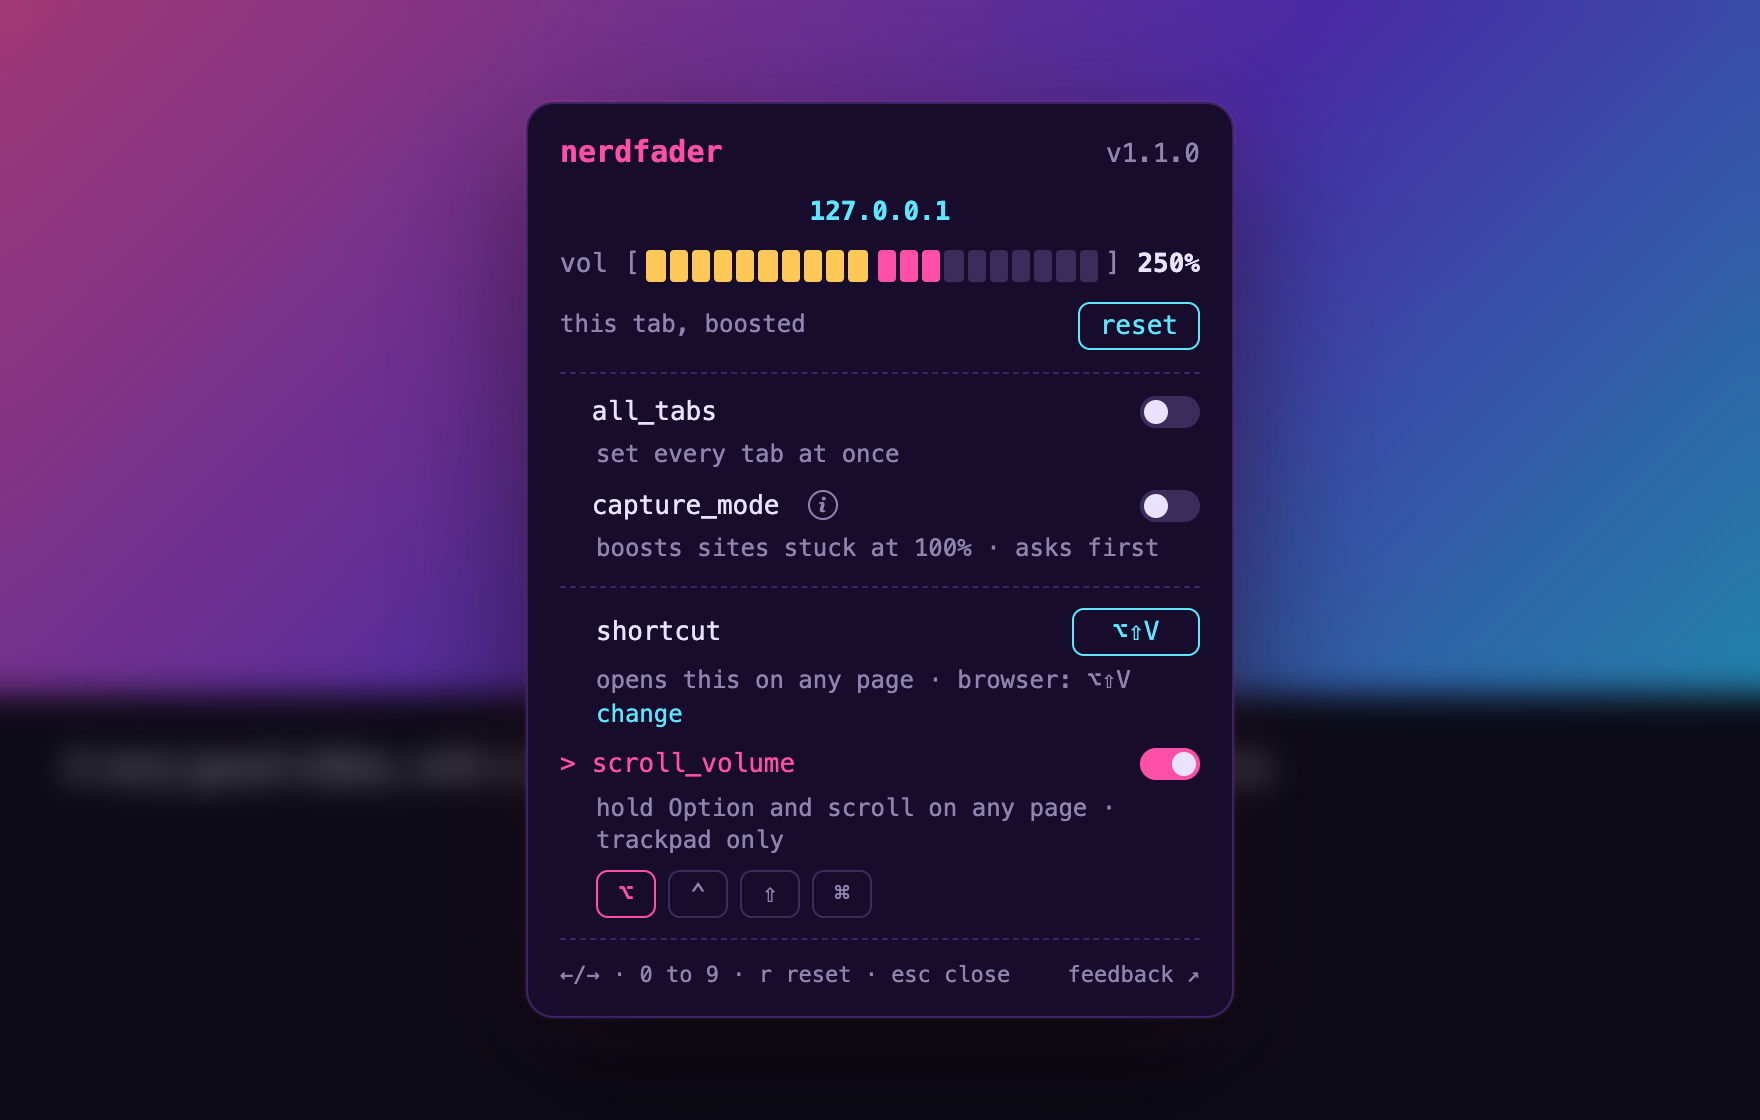
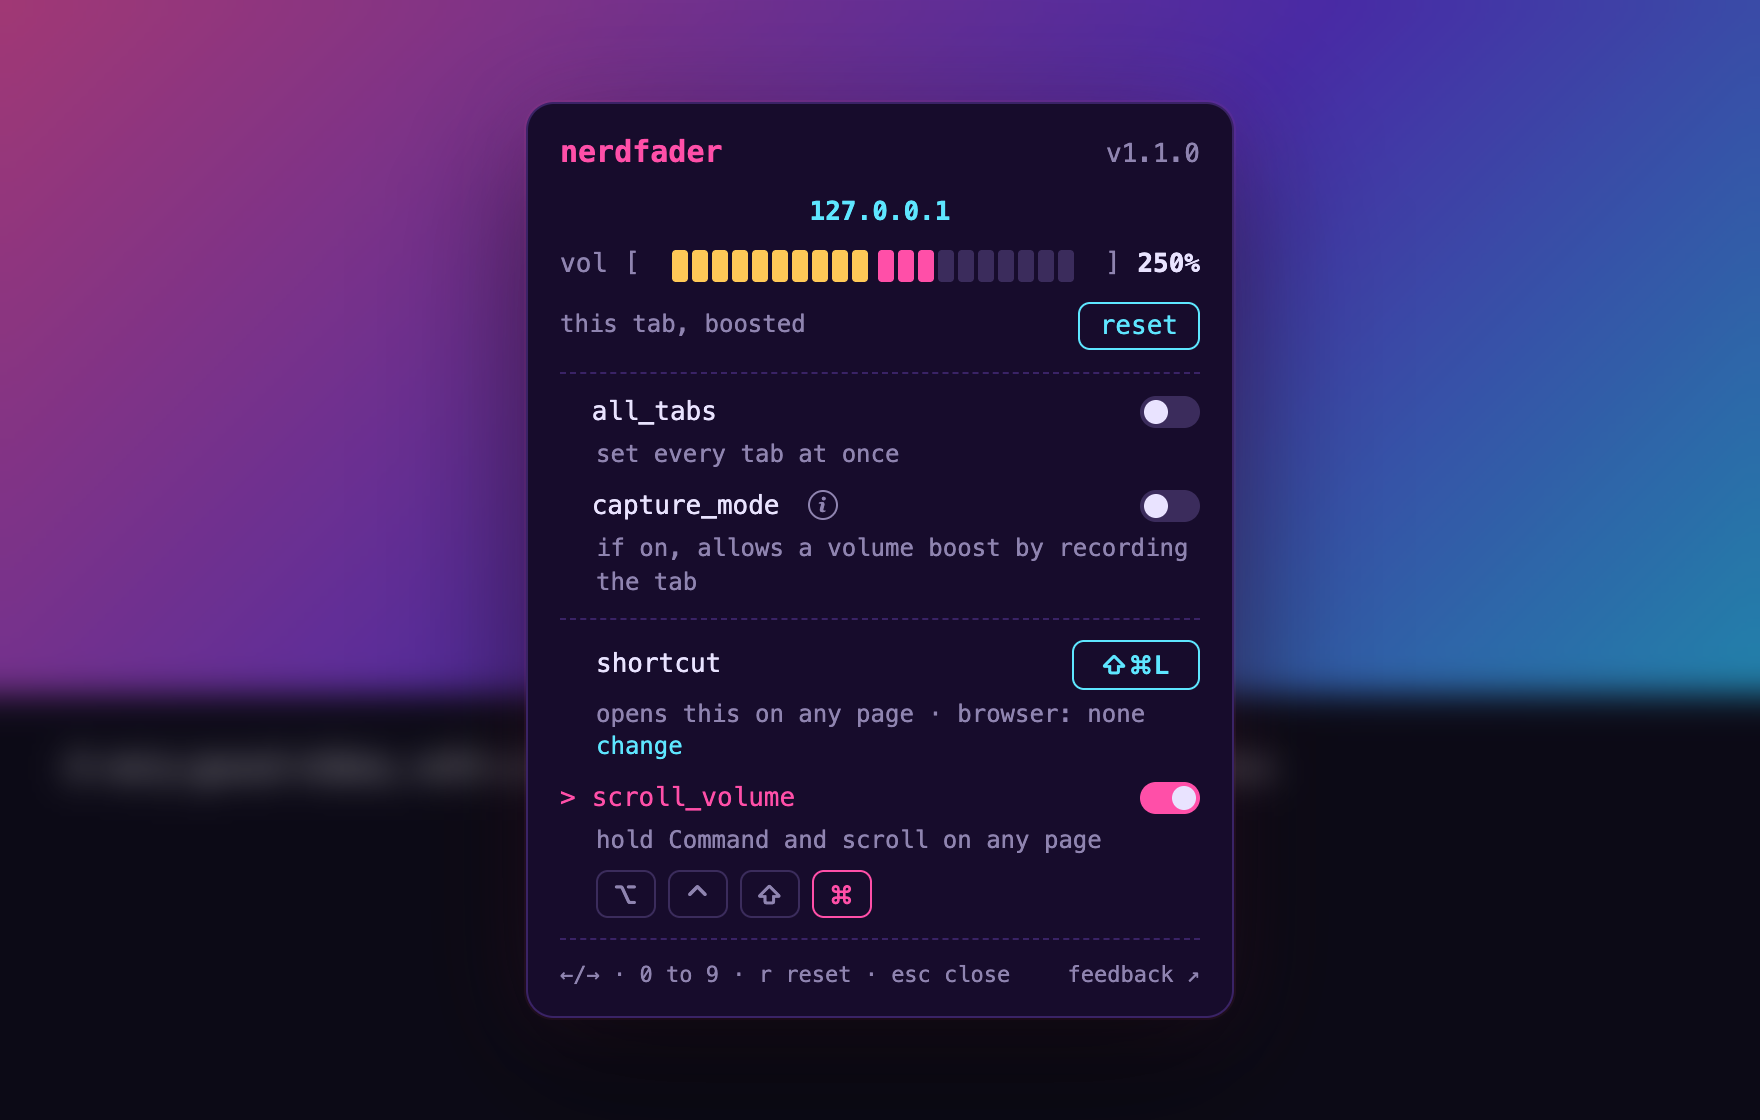
Defaults: Command+Shift+L shortcut, Command + scroll; even segments; clearer capture text
- Default shortcut Command+Shift+L (Ctrl+Shift+L elsewhere), in the page and as the suggested browser shortcut;
  scrolling changes the volume with Command (Windows key elsewhere) held by default. Choices users made are kept.
- Volume segments get whole-pixel widths, so none is drawn narrower than the rest at 1x.
- Modifier symbols use the system font (the monospace one has no proper Shift arrow).
- capture_mode: "if on, allows a volume boost by recording the tab"; Off and On on separate lines in the info.

Changed region(s): [[0.3125, 0.4688, 0.6875, 0.8125], [0.3438, 0.2188, 0.625, 0.25]]

diff --git a/tests/extension.test.js b/tests/extension.test.js
@@ -607,18 +607,18 @@ test("boosting loud audio makes it clearly louder without crackling", async () =
   await page.close();
 });
 
-test("the shortcut (Option/Alt+Shift+V by default) opens and closes the dialog on the page; a new one can be recorded", async () => {
+test("the shortcut (Command+Shift+L by default) opens and closes the dialog on the page; a new one can be recorded", async () => {
   const { page, tabId } = await openTestPage();
-  await page.keyboard.press("Alt+Shift+KeyV");
+  await page.keyboard.press("Meta+Shift+KeyL");
   assert.equal(await until(() => dialogReady(page), 2000), true, "default shortcut opens");
-  await page.keyboard.press("Alt+Shift+KeyV");
+  await page.keyboard.press("Meta+Shift+KeyL");
   assert.equal(await until(async () => !(await dialogOpen(page)), 1000), true, "and closes");
 
   // Record Ctrl+Shift+K in the panel (the toolbar popup shows the same panel without a shadow root).
   const popup = await context.newPage();
   await popup.addInitScript(([tabId, url]) => { chrome.tabs.query = async () => [{ id: tabId, url }]; }, [tabId, page.url()]);
   await popup.goto(ext.url());
-  await popup.locator(".shortcutBtn", { hasText: "⌥⇧V" }).waitFor();
+  await popup.locator(".shortcutBtn", { hasText: "⇧⌘L" }).waitFor();
   await popup.click(".shortcutBtn");
   await popup.locator(".shortcutBtn", { hasText: "press keys" }).waitFor();
   await popup.keyboard.press("Control+Shift+KeyK");
@@ -627,7 +627,7 @@ test("the shortcut (Option/Alt+Shift+V by default) opens and closes the dialog o
   await settle();
 
   await page.bringToFront();
-  await page.keyboard.press("Alt+Shift+KeyV");
+  await page.keyboard.press("Meta+Shift+KeyL");
   await wait(400);
   assert.equal(await dialogOpen(page), false, "the old shortcut no longer opens it");
   await page.keyboard.press("Control+Shift+KeyK");
@@ -650,7 +650,7 @@ test("the shortcut (Option/Alt+Shift+V by default) opens and closes the dialog o
   await page.keyboard.press("Escape");
   await until(async () => !(await dialogOpen(page)), 1000);
 
-  await send({ type: "setSettings", shortcut: { code: "KeyV", alt: true, ctrl: false, meta: false, shift: true } });
+  await send({ type: "setSettings", shortcut: { code: "KeyL", alt: false, ctrl: false, meta: true, shift: true } });
   await page.close();
 });
 
@@ -659,9 +659,9 @@ test("Option/Alt + scroll changes the volume and shows the dialog for a moment; 
   await page.mouse.move(200, 200);
   const state = async () => (await send({ type: "state", tabId })).tab;
   const altWheel = async (...deltas) => {
-    await page.keyboard.down("Alt");
+    await page.keyboard.down("Meta");   // Command + scroll, the default
     for (const d of deltas) await page.mouse.wheel(0, d);
-    await page.keyboard.up("Alt");
+    await page.keyboard.up("Meta");
   };
   const closesWithin = (ms) => until(async () => !(await dialogOpen(page)), ms);
 
@@ -762,10 +762,10 @@ test("a continuous swipe that opens the dialog keeps changing the volume, by dis
   const { page, tabId } = await openTestPage();
   await page.mouse.move(300, 300);
   const cdp = await context.newCDPSession(page);
-  // 30 events of 20 CSS px (40 device px at this page's 2x scale), about 50 ms apart, Option held: 600 px, so one
+  // 30 events of 20 CSS px (40 device px at this page's 2x scale), about 50 ms apart, Command held: 600 px, so one
   // step to start and then one per 100 px.
   for (let i = 0; i < 30; i++) {
-    await cdp.send("Input.dispatchMouseEvent", { type: "mouseWheel", x: 300, y: 300, deltaX: 0, deltaY: 40, modifiers: 1 });
+    await cdp.send("Input.dispatchMouseEvent", { type: "mouseWheel", x: 300, y: 300, deltaX: 0, deltaY: 40, modifiers: 4 });   // Command held
     await wait(16);
   }
   await wait(400);
@@ -795,8 +795,8 @@ test("the scroll key can be changed; Control ignores trackpad pinches", async ()
 
   await send({ type: "setSettings", scrollKey: "ctrl" });
   await settle();
-  await wheelWith("Alt");
-  assert.equal(await state(), 100, "Option no longer does it");
+  await wheelWith("Meta");
+  assert.equal(await state(), 100, "Command no longer does it");
   // A pinch: a wheel event with ctrlKey set while the Control key isn't held.
   await page.evaluate(() => document.body.dispatchEvent(new WheelEvent("wheel", { deltaY: 100, ctrlKey: true, bubbles: true, cancelable: true })));
   await wait(500);
@@ -811,7 +811,7 @@ test("the scroll key can be changed; Control ignores trackpad pinches", async ()
   assert.equal(await until(async () => (await state()) === 150, 2000), true, "Shift + scroll does");
   await closeDialog();
 
-  await send({ type: "setSettings", scrollKey: "alt" });
+  await send({ type: "setSettings", scrollKey: "meta" });
   await send({ type: "setTab", tabId, percent: 100 });
   await page.close();
 });
@@ -829,13 +829,16 @@ test("capture mode's info button explains it without flipping the switch; the sc
   assert.equal(await popup.locator(".alwaysToggle").isChecked(), false, "switch untouched");
   await popup.click(".infoBtn");
   assert.equal(await popup.locator(".captureInfo").isVisible(), false, "and hidden again");
-  assert.match(await popup.locator(".captureHint").textContent(), /stuck at 100%/);
+  assert.equal(await popup.locator(".captureHint").textContent(), "if on, allows a volume boost by recording the tab");
+  const lines = await popup.locator(".captureInfo p").allTextContents();
+  assert.ok(lines.some((l) => l.startsWith("Off:")) && lines.some((l) => l.startsWith("On:")), "Off and On on their own lines");
 
-  await popup.click('.pick[data-key="meta"]');
-  await popup.locator('.pick.on[data-key="meta"]').waitFor();
-  assert.equal((await send({ type: "state", tabId })).settings.scrollKey, "meta", "saved");
-  assert.match(await popup.locator(".altScrollHint").textContent(), /Command/);
-  await send({ type: "setSettings", scrollKey: "alt" });
+  assert.equal(await popup.locator('.pick.on').getAttribute("data-key"), "meta", "Command by default");
+  await popup.click('.pick[data-key="alt"]');
+  await popup.locator('.pick.on[data-key="alt"]').waitFor();
+  assert.equal((await send({ type: "state", tabId })).settings.scrollKey, "alt", "saved");
+  assert.match(await popup.locator(".altScrollHint").textContent(), /Option/);
+  await send({ type: "setSettings", scrollKey: "meta" });
   await popup.close();
   await page.close();
 });
@@ -847,7 +850,7 @@ test("all 20 volume segments are the same width, with a gap marking 100%", async
   await popup.locator(".percent").waitFor();
   const widths = await popup.evaluate(() => [...document.querySelectorAll(".segments i")].map((i) => Math.round(i.getBoundingClientRect().width * 10) / 10));
   assert.equal(widths.length, 20);
-  assert.ok(Math.max(...widths) - Math.min(...widths) < 0.6, `equal widths: ${widths.join(", ")}`);
+  assert.ok(widths.every((w) => w === widths[0] && Number.isInteger(w)), `equal, whole-pixel widths: ${widths.join(", ")}`);
   const [ten, eleven, nine] = await popup.evaluate(() => [10, 11, 9].map((n) => document.querySelectorAll(".segments i")[n - 1].getBoundingClientRect()));
   assert.ok(eleven.left - ten.right > (ten.left - nine.right) + 0.5, "a wider gap between 100% and the boost half");
   await popup.close();

diff --git a/extension/ui/panel.js b/extension/ui/panel.js
@@ -54,11 +54,15 @@ globalThis.NerdfaderPanel = (() => {
 .nf .percent { width: 4ch; text-align: right; font-weight: 700; }
 
 .nf .bar { position: relative; flex: 1; display: flex; align-items: center; gap: 4px; color: var(--muted); }
-.nf .segments { flex: 1; display: grid; grid-template-columns: repeat(10, 1fr) 1px repeat(10, 1fr); gap: 2px; height: 16px; }
+.nf .segments {
+  flex: 1; display: grid; gap: 2px; height: 16px; justify-content: center;
+  grid-template-columns: repeat(10, var(--seg, 1fr)) 1px repeat(10, var(--seg, 1fr));
+}
 .nf .segments i { border-radius: 2px; background: var(--off); }
 .nf .segments i.on { background: var(--amber); }
 .nf .segments i.boost.on { background: var(--pink); }
-/* An empty column between the 10th and 11th segments marks 100%, so every segment keeps the same width. */
+/* An empty column between the 10th and 11th segments marks 100%. Segments get a whole number of pixels (--seg, set
+   from the space available) so the browser draws them all the same width instead of rounding some down. */
 
 /* The real slider sits invisibly on top of the segments: mouse, keyboard and screen readers all use it. */
 .nf .slider { position: absolute; inset: -6px 0; width: 100%; height: calc(100% + 12px); margin: 0; opacity: 0; cursor: pointer; }
@@ -107,6 +111,7 @@ globalThis.NerdfaderPanel = (() => {
 .nf .infoBtn.open, .nf .infoBtn:hover { color: var(--cyan); border-color: var(--cyan); }
 .nf .info { margin: 2px 0 8px 18px; padding: 8px 10px; border-left: 2px solid var(--cyan); font-size: 12px; color: var(--text); }
 .nf .info p + p { margin-top: 6px; }
+.nf .info p:has(b) + p:has(b) { margin-top: 2px; }   /* the Off and On lines sit together */
 .nf .info b { color: var(--cyan); font-weight: 700; }
 .nf .picks { display: flex; gap: 6px; margin: -2px 0 8px 18px; }
 .nf .pick { min-width: 30px; padding: 2px 6px; color: var(--muted); border-color: var(--off); }
@@ -115,6 +120,8 @@ globalThis.NerdfaderPanel = (() => {
 .nf .setting { display: flex; align-items: center; gap: 8px; padding-left: 18px; }
 .nf .setting .name { flex: 1; }
 .nf .shortcutBtn { min-width: 64px; }
+/* Modifier symbols (⌘⌥⇧⌃) in the system font: the monospace font has no proper ⇧ and borrows a mismatched one. */
+.nf .kbd { font-family: -apple-system, BlinkMacSystemFont, system-ui, "Segoe UI", sans-serif; font-weight: 600; letter-spacing: 0.06em; }
 .nf .shortcutBtn.recording { color: var(--pink); border-color: var(--pink); }
 
 .nf .offer { margin-top: 10px; padding: 10px; border: 1px dashed var(--pink); border-radius: 8px; font-size: 12px; }
@@ -177,7 +184,8 @@ globalThis.NerdfaderPanel = (() => {
   and players that load their media from another site. They still play, just not louder.</p>
   <p>Capture mode gets around that: Nerdfader records the tab's sound and plays it back louder. While it's on, the
   browser shows the tab as being shared, and it stops by itself when the tab goes quiet.</p>
-  <p><b>Off:</b> Nerdfader asks you on such a site. <b>On:</b> it just does it.</p>
+  <p><b>Off:</b> Nerdfader asks you on such a site.</p>
+  <p><b>On:</b> it just does it.</p>
 </div>
 <div class="rule"></div>
 <div class="setting">
@@ -193,7 +201,7 @@ globalThis.NerdfaderPanel = (() => {
 </label>
 <div class="hint altScrollHint"></div>
 <div class="picks">
-  <button class="pick" data-key="alt"></button><button class="pick" data-key="ctrl"></button><button class="pick" data-key="shift"></button><button class="pick" data-key="meta"></button>
+  <button class="pick kbd" data-key="alt"></button><button class="pick kbd" data-key="ctrl"></button><button class="pick kbd" data-key="shift"></button><button class="pick kbd" data-key="meta"></button>
 </div>
 <div class="rule"></div>
 <footer>
@@ -360,21 +368,21 @@ globalThis.NerdfaderPanel = (() => {
       $("override").checked = all;
       $("overrideHint").textContent = all ? "every tab plays at this volume" : "set every tab at once";
       $("alwaysToggle").checked = state.captureAlways;
-      $("captureHint").textContent = state.captureAlways
-        ? "boosts sites stuck at 100% · automatically"
-        : "boosts sites stuck at 100% · asks first";
+      $("captureHint").textContent = "if on, allows a volume boost by recording the tab";
 
-      const settings = state.settings ?? { shortcut: null, altScroll: true, scrollKey: "alt" };
+      const settings = state.settings ?? { shortcut: null, altScroll: true, scrollKey: "meta" };
       $("shortcutBtn").textContent = recording ? "press keys…" : shortcutLabel(settings.shortcut);
+      $("shortcutBtn").classList.toggle("kbd", !recording && !!settings.shortcut);
       $("shortcutBtn").classList.toggle("recording", recording);
       $("shortcutHint").innerHTML = "";
       $("shortcutHint").append(
         recording ? "Esc cancels, Delete removes it" : "opens this on any page",
         ...(state.browserShortcut !== undefined
-          ? [` · browser: ${state.browserShortcut || "none"} `, Object.assign(document.createElement("a"), { textContent: "change", className: "changeBrowser", tabIndex: -1 })]
+          ? [" · browser: ", Object.assign(document.createElement("span"), { textContent: state.browserShortcut || "none", className: state.browserShortcut ? "kbd" : "" }), " ",
+             Object.assign(document.createElement("a"), { textContent: "change", className: "changeBrowser", tabIndex: -1 })]
           : []),
       );
-      const key = settings.scrollKey ?? "alt";
+      const key = settings.scrollKey ?? "meta";
       $("altScrollToggle").checked = settings.altScroll;
       $("altScrollHint").textContent = settings.altScroll
         ? `hold ${modifierWords[key]} and scroll on any page` + (mac && key === "alt" ? " · trackpad only" : "")
@@ -497,6 +505,16 @@ globalThis.NerdfaderPanel = (() => {
     }
     // Only the popup listens itself; see above.
     if (!close) root.addEventListener("wheel", wheel, { passive: false });
+
+    // Whole-pixel segments: 20 of them, 20 gaps of 2 px and the 1 px 100% marker in the space the bar has.
+    const fitSegments = () => {
+      const segs = $("segments");
+      segs.style.removeProperty("--seg");
+      const width = Math.floor((segs.getBoundingClientRect().width - 41) / 20);
+      if (width > 0) segs.style.setProperty("--seg", `${width}px`);
+    };
+    fitSegments();
+    new ResizeObserver(fitSegments).observe(root);
 
     render();
     root.focus();

diff --git a/extension/background.js b/extension/background.js
@@ -24,15 +24,17 @@ const clamp = (p) => Math.round(Math.min(MAX, Math.max(0, Number(p) || 0)));
 const toPercent = (pos) => (pos <= 100 ? pos : 100 + (pos - 100) * 5);
 const toPos = (p) => (p <= 100 ? p : 100 + (p - 100) / 5);
 
-// The in-page shortcut (content/input.js), stored as the key's code and modifiers. Option/Alt + Shift + V by default,
-// the same as the browser-level shortcut in manifest.json.
-const DEFAULT_SHORTCUT = { code: "KeyV", alt: true, shift: true, ctrl: false, meta: false };
+// The in-page shortcut (content/input.js), stored as the key's code and modifiers: Command + Shift + L on a Mac,
+// Ctrl + Shift + L elsewhere, the same as the browser-level shortcut in manifest.json. Scrolling changes the volume
+// with Command (Windows key elsewhere) held by default. Only defaults: a choice the user made is kept.
 async function settings() {
-  const { shortcut = DEFAULT_SHORTCUT, altScroll = true, scrollKey = "alt" } =
+  const mac = (await chrome.runtime.getPlatformInfo()).os === "mac";
+  const defaultShortcut = { code: "KeyL", shift: true, meta: mac, ctrl: !mac, alt: false };
+  const { shortcut = defaultShortcut, altScroll = true, scrollKey = "meta" } =
     await chrome.storage.local.get(["shortcut", "altScroll", "scrollKey"]);
   return { shortcut, altScroll, scrollKey };
 }
-// The browser-level shortcut as Chrome shows it (for example "⌥⇧V"), or "" when the user removed it.
+// The browser-level shortcut as Chrome shows it (for example "⇧⌘L"), or "" when the user removed it.
 async function browserShortcut() {
   const commands = await chrome.commands.getAll();
   return commands.find((c) => c.name === "_execute_action")?.shortcut ?? "";

diff --git a/extension/content/input.js b/extension/content/input.js
@@ -1,5 +1,5 @@
 // Runs in the extension's isolated world in every frame: the shortcut that opens the dialog, and modifier + scroll
-// (Option by default), which changes the tab's volume and shows the dialog for a moment. While the dialog is up, any
+// (Command by default), which changes the tab's volume and shows the dialog for a moment. While the dialog is up, any
 // scroll over it changes the volume too, handled here as well: one place counts every scroll, so a swipe that opens
 // the dialog keeps going without a hiccup.
 // Settings come from the background ({ shortcut, altScroll, scrollKey }) when the page loads and whenever they change.
@@ -9,7 +9,7 @@
   if (typeof previous === "function" && previous()) return;
   window.__nerdfaderInput = connected;
 
-  let settings = { shortcut: null, altScroll: true, scrollKey: "alt" };
+  let settings = { shortcut: null, altScroll: true, scrollKey: "meta" };
   const ask = (msg) => (connected() ? chrome.runtime.sendMessage(msg) : Promise.reject(new Error("disconnected")));
   ask({ type: "getSettings" }).then((s) => s && !s.error && (settings = s), () => {});
   chrome.runtime.onMessage.addListener((msg) => { if (msg?.type === "settings") settings = msg.settings; });
@@ -35,7 +35,7 @@
   const onModifier = (e) => { if (e.key === "Control") controlHeld = e.type === "keydown"; };
   const keys = ["alt", "ctrl", "shift", "meta"];
   function scrollKeyHeld(e) {
-    const chosen = settings.scrollKey ?? "alt";
+    const chosen = settings.scrollKey ?? "meta";
     if (chosen === "ctrl" && !controlHeld) return false;
     return keys.every((k) => e[k + "Key"] === (k === chosen));
   }

diff --git a/README.md b/README.md
@@ -30,14 +30,15 @@ Made for the [Nerdative](https://www.youtube.com/@nerdative) channel on YouTube,
 - **all_tabs.** Turn it on and one slider sets every tab, including ones you open later. Turn it off and every
   tab goes back to the volume it had before.
 - **Badge.** The toolbar icon shows the tab's volume when it isn't 100%.
-- **Shortcut.** **⌥⇧V** (Alt+Shift+V elsewhere) opens and closes the dialog. Record your own in the dialog (click
+- **Shortcut.** **⌘⇧L** (Ctrl+Shift+L elsewhere) opens and closes the dialog. Record your own in the dialog (click
   the shortcut, press the keys; Delete removes it): it works on any page and inside embedded players. The browser's
   own shortcut also works from the address bar; change it at `arc://extensions/shortcuts` (the dialog links there).
-- **Modifier + scroll.** Hold Option (Alt) and scroll anywhere, with a mouse wheel or two fingers on a trackpad, to
+  If the browser already uses that key itself, it leaves the browser-level shortcut unassigned; pick another there.
+- **Modifier + scroll.** Hold Command (the Windows key elsewhere) and scroll anywhere, with a mouse wheel or two fingers on a trackpad, to
   change the tab's volume: scrolling down turns it up (with macOS natural scrolling, that's a two-finger swipe up).
   The dialog shows for a moment and follows along while you keep scrolling; it goes away 2 seconds after you stop.
-  Click or type in it and it stays until you click away or press Esc. Pick the key in **scroll_volume**: ⌥ Option,
-  ⌃ Control, ⇧ Shift or ⌘ Command (or turn it off). On a Mac, Option works with a trackpad only (macOS doesn't
+  Click or type in it and it stays until you click away or press Esc. Pick the key in **scroll_volume**: ⌘ Command
+  (the default), ⌥ Option, ⌃ Control or ⇧ Shift (or turn it off). On a Mac, Option works with a trackpad only (macOS doesn't
   pass Option + mouse wheel to pages); with a mouse, pick another key. A trackpad pinch never counts as Control +
   scroll. The page doesn't rubber-band while the dialog is up, so a hard swipe at the top or bottom of a page stays
   with the dialog.
@@ -46,7 +47,7 @@ Made for the [Nerdative](https://www.youtube.com/@nerdative) channel on YouTube,
   the dialog works too. The dialog keeps the keyboard itself, so no control inside it takes focus or shows a focus
   ring (Tab doesn't step through it).
 - **Four-finger gestures?** macOS keeps three- and four-finger trackpad gestures to itself; web pages and extensions
-  never see them. To open Nerdfader with one, map the gesture to ⌥⇧V in a tool like
+  never see them. To open Nerdfader with one, map the gesture to ⌘⇧L in a tool like
   [BetterTouchTool](https://folivora.ai).
 - **The site doesn't notice.** YouTube's own volume slider keeps working and keeps showing its own value;
   Nerdfader scales whatever the site plays.
